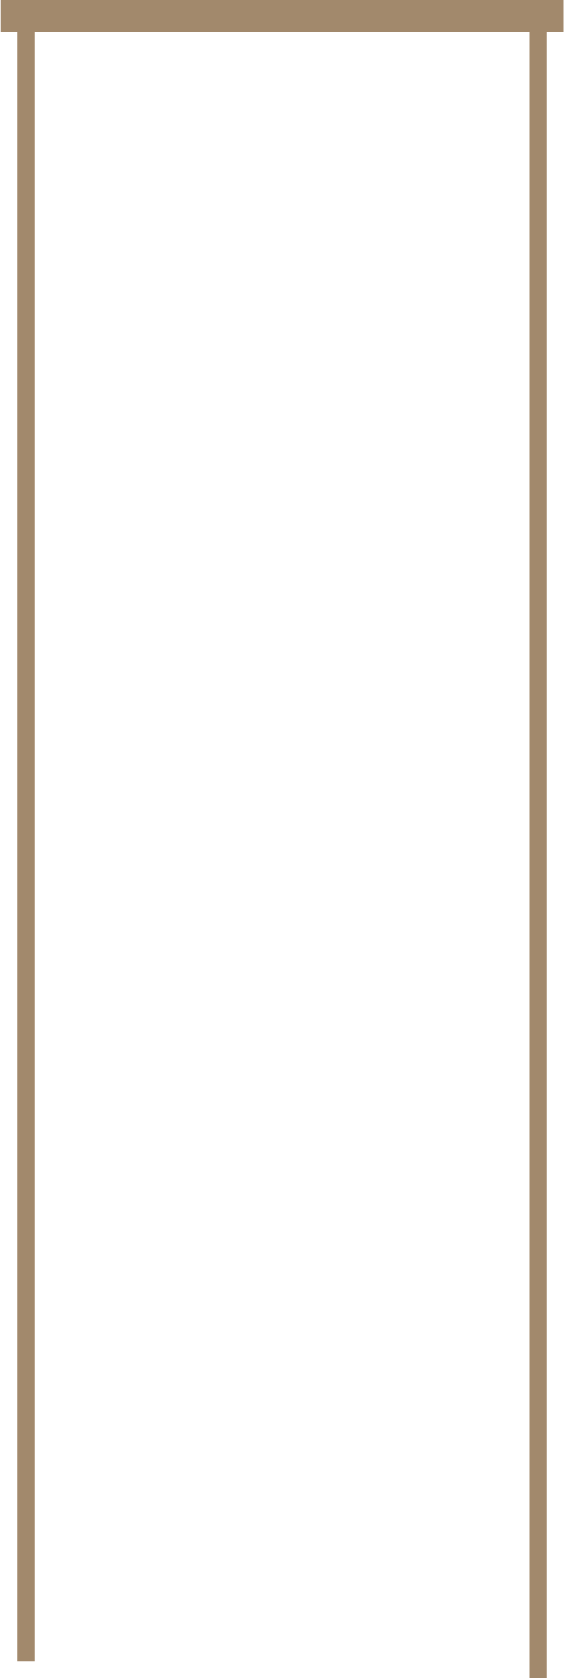
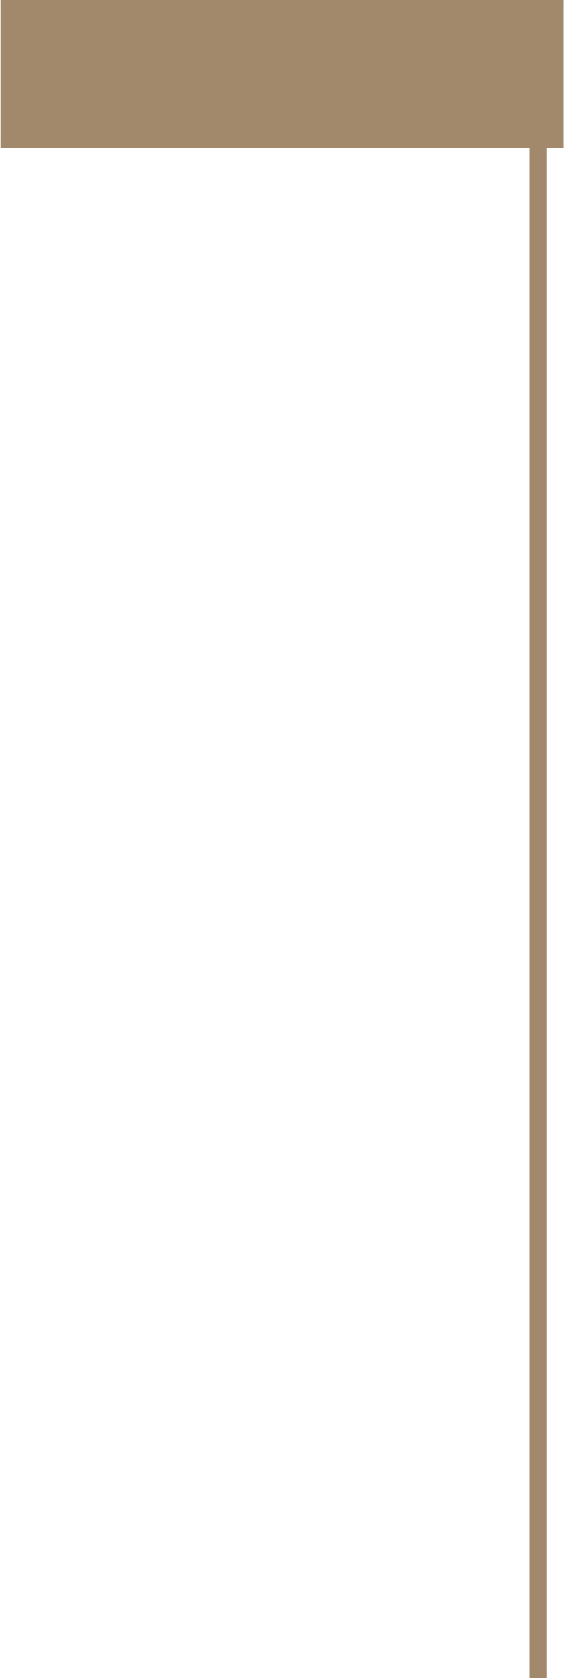
Some fixes

Changed region(s): [[0.0, 0.0, 1.0, 0.9917]]

diff --git a/app/index.html b/app/index.html
@@ -28,18 +28,24 @@
 <!-- endbower -->
 <!-- endbuild -->
 
+<script src="/bower_components/scrollmagic/scrollmagic/uncompressed/plugins/animation.gsap.js"></script>
+<script src="/bower_components/scrollmagic/scrollmagic/uncompressed/plugins/debug.addIndicators.js"></script>
+
+
 <div class="container container-table" style="height: 4000px">
   <div class="row vertical-center-row">
     <div class="text-center col-md-12">
       <div id="scene_1">
         <div id="start_spacer"></div>
-        <div id="swing_trigger"></div>
-        <div id="girl_container">
+        <div id="swing_trigger1"></div>
+        <div id="girl_container" style="margin: 0 !important;">
           <div id="scene_1_background">
-            <img src="images/swing.png" style="max-width: 200px; position: absolute; left: 200px;">
+            <img src="images/left_swing_pole.png" id="left_swing_pole">
+            <img id="girl" src="images/girl_on_swing.png">
+            <img src="images/swing.png" id="swing_bg">
           </div>
-          <img id="girl" src="images/girl_on_swing.png" style="max-width: 200px;">
         </div>
+        <div id="swing_trigger2"></div>
       </div>
     </div>
   </div>

diff --git a/app/scripts/main.js b/app/scripts/main.js
@@ -1,9 +1,10 @@
 var controller = new ScrollMagic.Controller();
 
-var tween = TweenMax.to("#girl", 1, {rotation: 50, transformOrigin:"left top", repeat: 5, yoyo:true, ease: Linear.easeNone});
-
-new ScrollMagic.Scene({triggerElement: "#swing_trigger", duration: 400, triggerHook: 0.2})
-  .setTween(tween)
-  .setPin("#girl_container", {pushSpacers: false})
-  .addIndicators({name: "here"})
+new ScrollMagic.Scene({triggerElement: "#swing_trigger1", duration: 800, triggerHook: 0.2})
+  .setTween(new TimelineMax()
+    .add(TweenMax.to("#girl", 1, {rotation: 50, transformOrigin:"left top", repeat: 7, yoyo:true, ease: Linear.easeNone}))
+    .add(TweenMax.to("#girl", 1, {rotation: 450, transformOrigin:"left top", ease: Linear.easeNone}))
+  )
+  .setPin("#girl_container")
+  .addIndicators({name: "swing1"})
   .addTo(controller);

diff --git a/app/styles/main.css b/app/styles/main.css
@@ -1,19 +1,13 @@
 html, body, .container-table {
     height: 100%;
 }
+
 .container-table {
     display: table;
 }
+
 .vertical-center-row {
     display: table-cell;
-}
-
-.spacer.s2 {
-    min-height: 400px;
-}
-
-.spacer.s0 {
-    min-height: 1px;
 }
 
 #start_spacer {
@@ -30,6 +24,22 @@ html, body, .container-table {
     width: 100%;
 }
 
-.girl {
-    transform-origin: center top;
+#girl {
+    max-width: 200px;
+    position: absolute;
+    left: 450px;
+}
+
+#swing_bg {
+    height: 500px;
+    width: 210px;
+    position: absolute;
+    left: 380px;
+}
+
+#left_swing_pole {
+    height: 500px;
+    width: 7px;
+    position: absolute;
+    left: 385px;
 }
